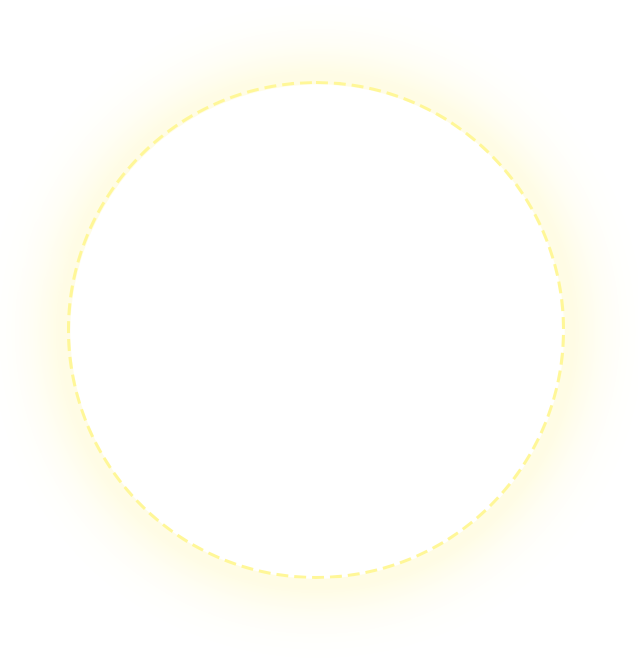
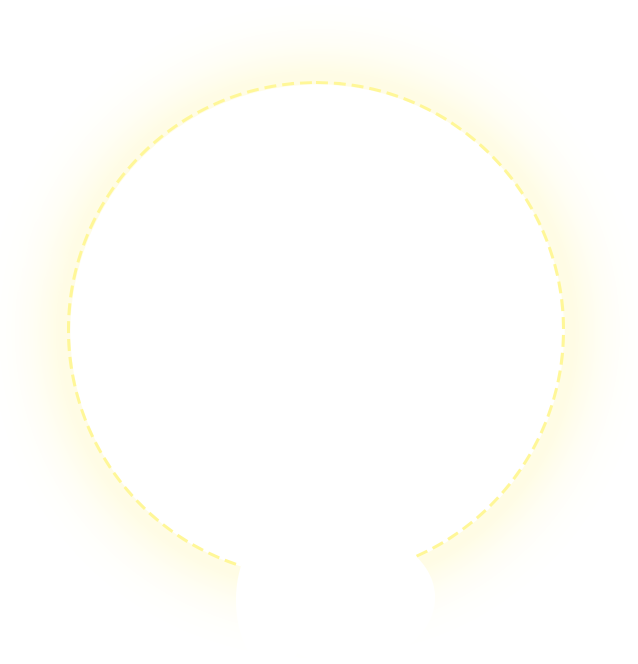
打分完成准备做抽奖页

Changed region(s): [[0.3574, 0.8434, 0.6552, 0.9036]]

diff --git a/src/MoonSuccess/index.js b/src/MoonSuccess/index.js
@@ -1,16 +1,36 @@
 import { useLocation } from "react-router-dom"
+import { Toast } from 'antd-mobile';
+import { useNavigate } from 'react-router-dom';
 import '../Moon/index.scss';
+import { useEffect } from "react";
 export default function MoonSuccess(props){
     const location=useLocation();
+    let navigate = useNavigate();
     let utils=new URLSearchParams(location.search)
+    useEffect(()=>{
+        if( utils.get('score') >= 90 ){
+            Toast.show({
+                content: '恭喜您,获得了1次抽奖机会.',
+            })
+        } else {
+            Toast.show({
+                content: '很遗憾,请再接再厉!',
+            })
+        }
+    },[])
     return (
-        <div className="moon">
+        <div className="moon moonsuccess">
             <div className='box'>
                 <img src={ require('@/Assets/moonhua.png') }></img>
                 <div className='tip tipScore'>
                     { utils.get('score')}<span> 分</span>
+                    <p>抽奖次数:<span className="bold">4</span> </p>
                 </div>
                 <canvas className="canvas" id="canvas" width={window.screen.availWidth} height={300}></canvas>
+            </div>
+            <div className="menu">
+                <a onClick={ ()=>navigate('/Moon') }><img src={ require('@/Assets/ag.png') } width={160}></img></a>
+                <a><img src={ require('@/Assets/golottery.png') } width={160}></img></a>
             </div>
         </div>
     )

diff --git a/src/Moon/index.js b/src/Moon/index.js
@@ -1,7 +1,6 @@
 import { fabric } from 'fabric';
 import { useEffect, useState } from 'react';
 import { useNavigate } from 'react-router-dom';
-import Back from '@/Components/back';
 import './index.scss';
 var canvas = {};
 export default function Moon() {
@@ -88,6 +87,7 @@ export default function Moon() {
         if (volatility < 10) {
             return 100;
         }
+        return 20;
     }
     /**
      * 计算周长
@@ -181,7 +181,6 @@ export default function Moon() {
                 </div>
                 <canvas className="canvas" id="canvas" width={window.screen.availWidth} height={300}></canvas>
             </div>
-            <Back />
         </div>
     )
 }

diff --git a/src/Moon/index.scss b/src/Moon/index.scss
@@ -27,14 +27,35 @@
     > .tipScore{
       color: #FFF697;
       font-size: 60px;
-      font-family:sans-serif;
+      font-family:serif;
       > span {
         font-size: 16px;
+      }
+      > p{
+        font-size: 16px;
+        margin-top: 10px;
+        font-weight: 300;
+        > .bold{
+          font-weight: bold;
+          font-family: serif;
+        }
       }
     }
     > img{
       width: 340px;
       margin-top: 40px;
+    }
+  }
+}
+.moonsuccess{
+  background-image: url('../Assets/moonsuccess.png');
+  > .menu{
+    width: 100%;
+    position: absolute;
+    bottom: 20px;
+    text-align: center;
+    > a{
+      margin: 0 15px;
     }
   }
 }
